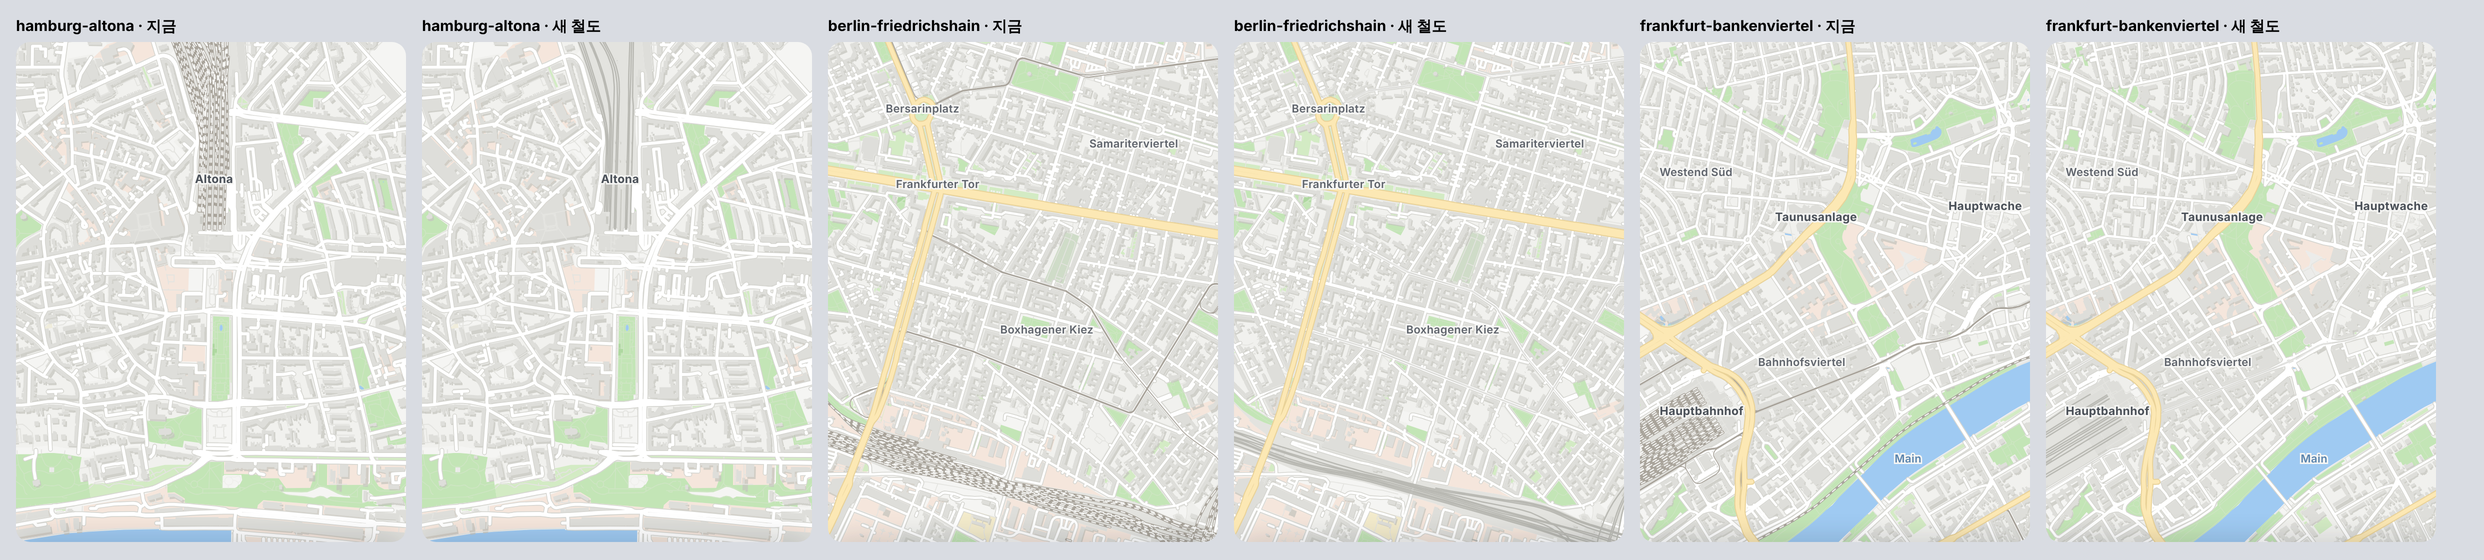
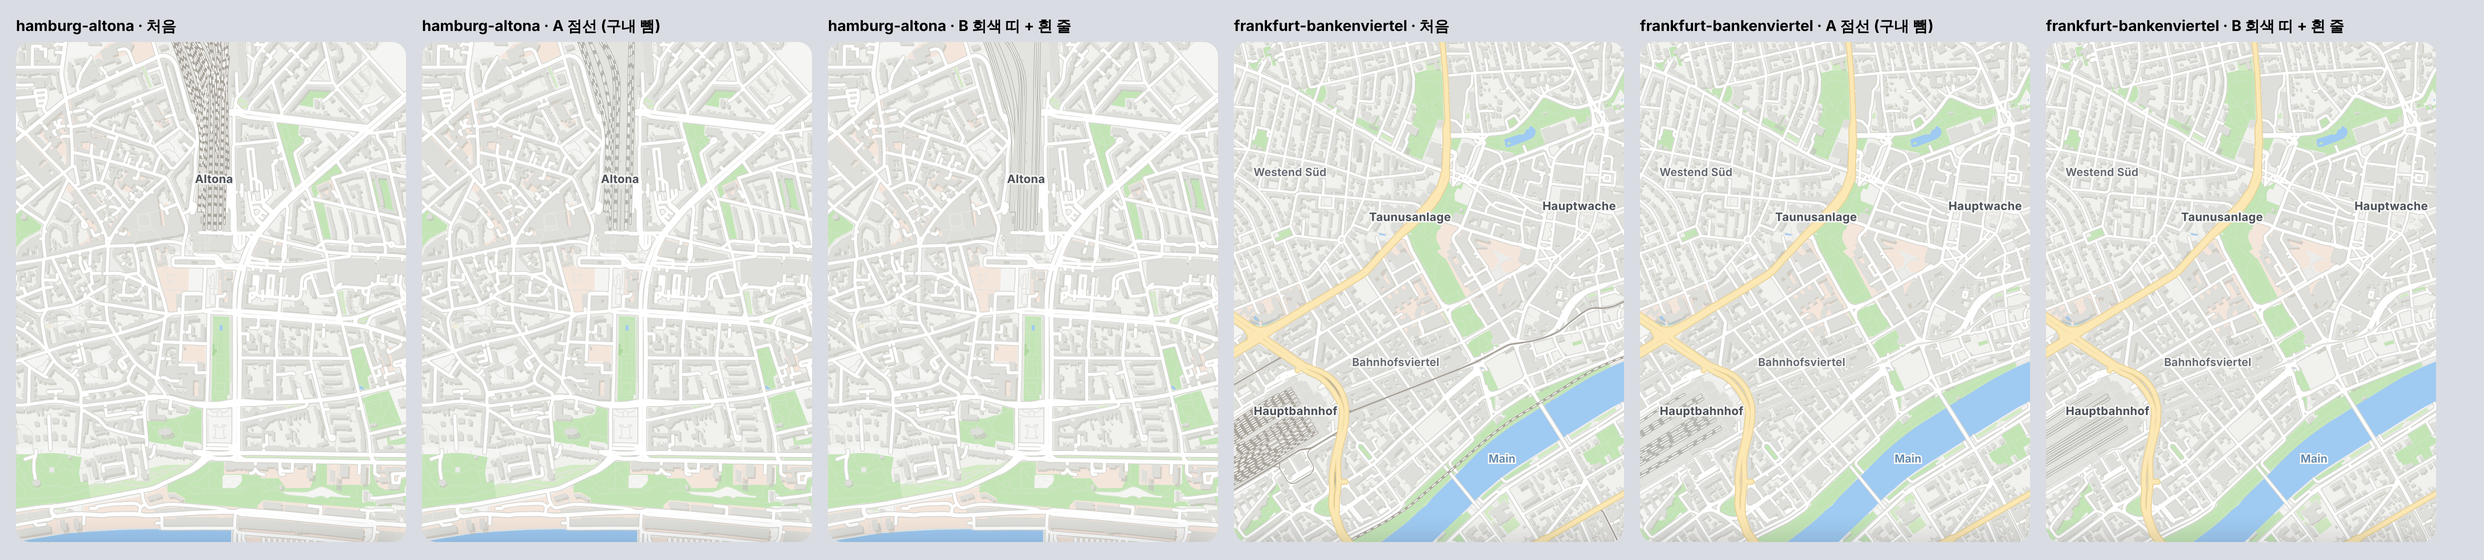
지도 시안: 철도 두 안 (RAIL=dash 점선 · RAIL=band 회색 띠 + 흰 줄), 구내 선로는 둘 다 뺌
Claude-Session: https://claude.ai/code/session_01TBUyc4nvbfrUF2uL1hRtAL

diff --git a/docs/mockups/phone-map/osm/osmmap.js b/docs/mockups/phone-map/osm/osmmap.js
@@ -147,6 +147,8 @@ let svg = `<rect width="${W}" height="${H}" fill="${C.land}"/>`
   + st(L.minor, C.edge, mpx(9) + 1.6) + st(L.mid, C.edge, mpx(12) + 1.8)
   + st(L.minor, C.road, mpx(9)) + st(L.mid, C.road, mpx(12))
   + (process.env.RAIL === 'old' ? st(L.rail, C.rail, 2.4) + st(L.rail, C.land, 1.1, ' stroke-dasharray="4 4"') + st(L.tram, C.rail, 0.9)
+     : process.env.RAIL === 'dash' ? st(L.rail, '#b4b4ae', 2.6) + st(L.rail, '#f5f5f3', 1.1, ' stroke-dasharray="6 5"') + st(L.tram, '#b9b9b3', 0.6, ' opacity=".6"')
+     : process.env.RAIL === 'band' ? st(L.rail, '#bdbdb7', 2.8) + st(L.rail, '#f2f2ef', 0.9) + st(L.tram, '#b9b9b3', 0.6, ' opacity=".6"')
      : st(L.rail, C.railLine || '#b9b9b3', 1.3) + st(L.tram, C.railLine || '#b9b9b3', 0.6, ' opacity=".6"'))
   + st(L.major, C.majorEdge, mpx(16) + 2) + st(L.major, C.major, mpx(16));
 // no labels file → names from the data: stations, quarters, sights, the river; greedy, no overlaps, above the sheet
